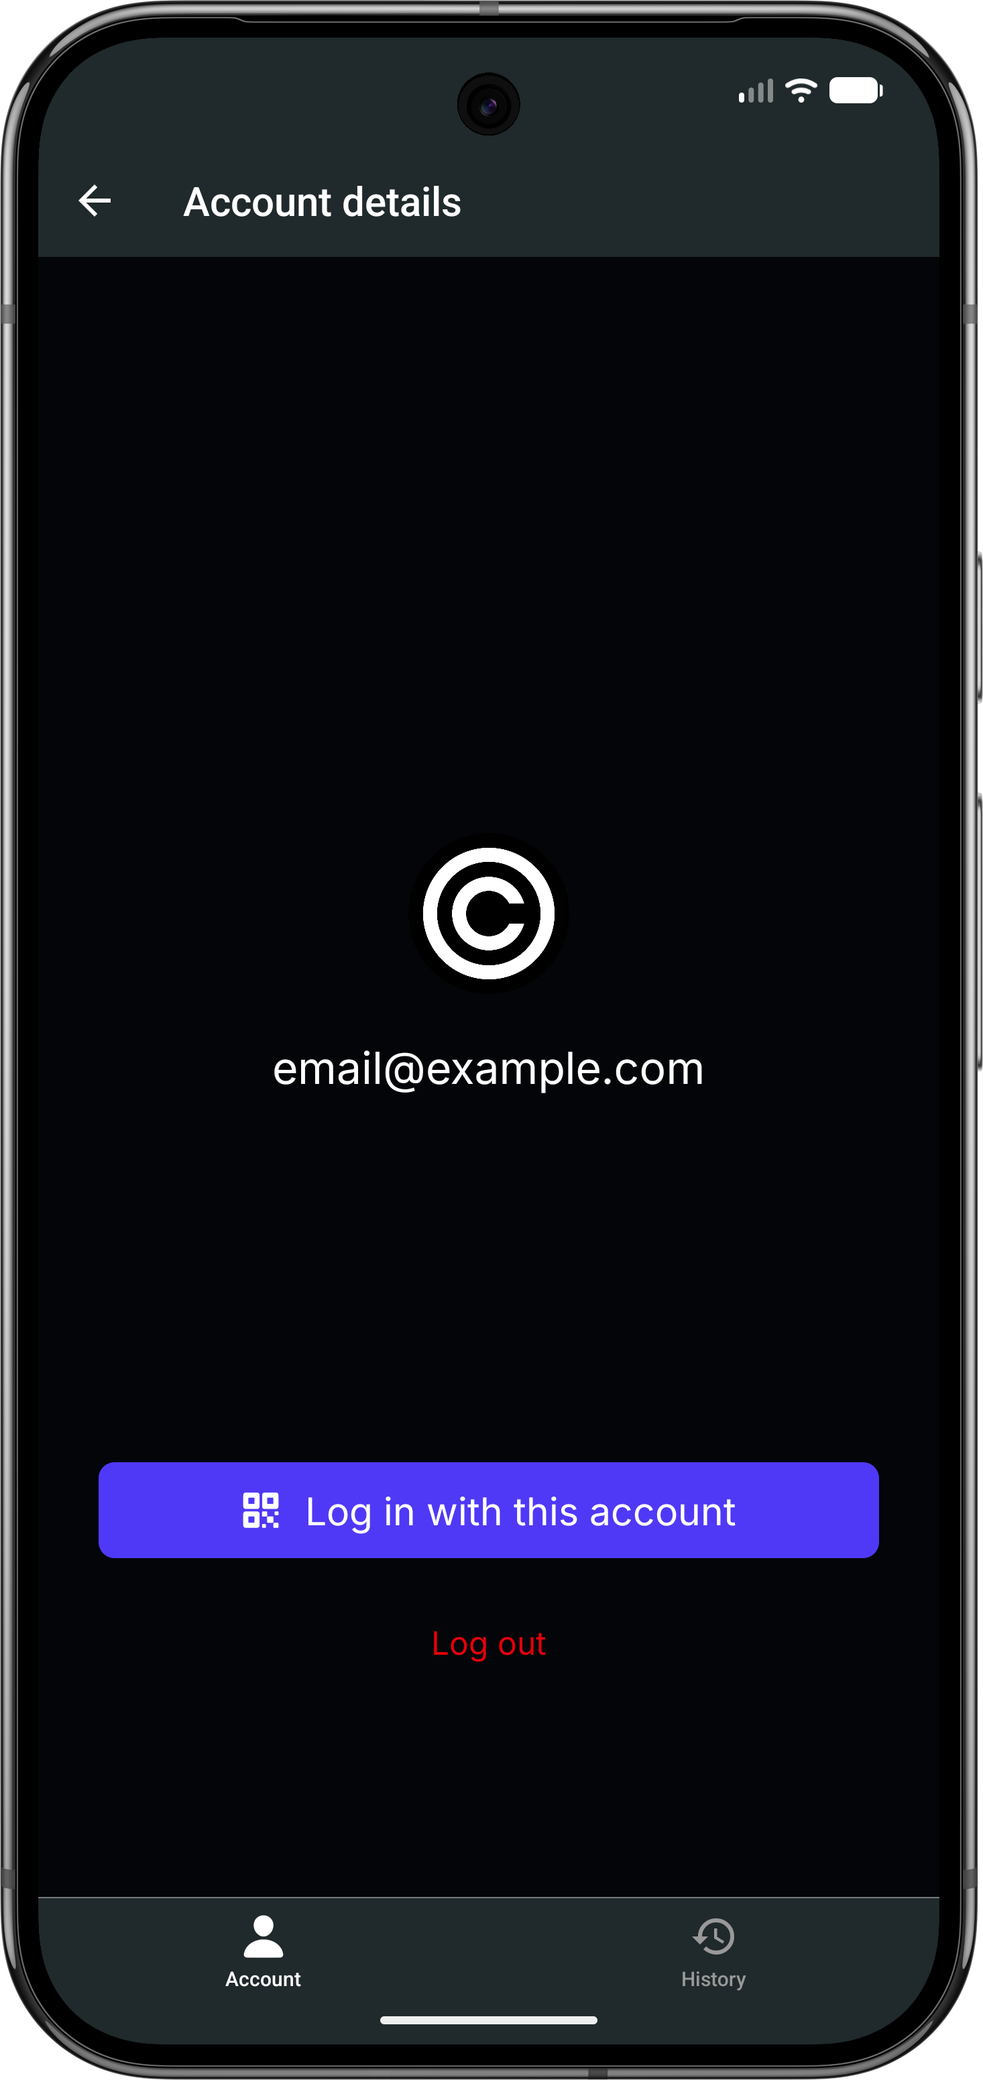
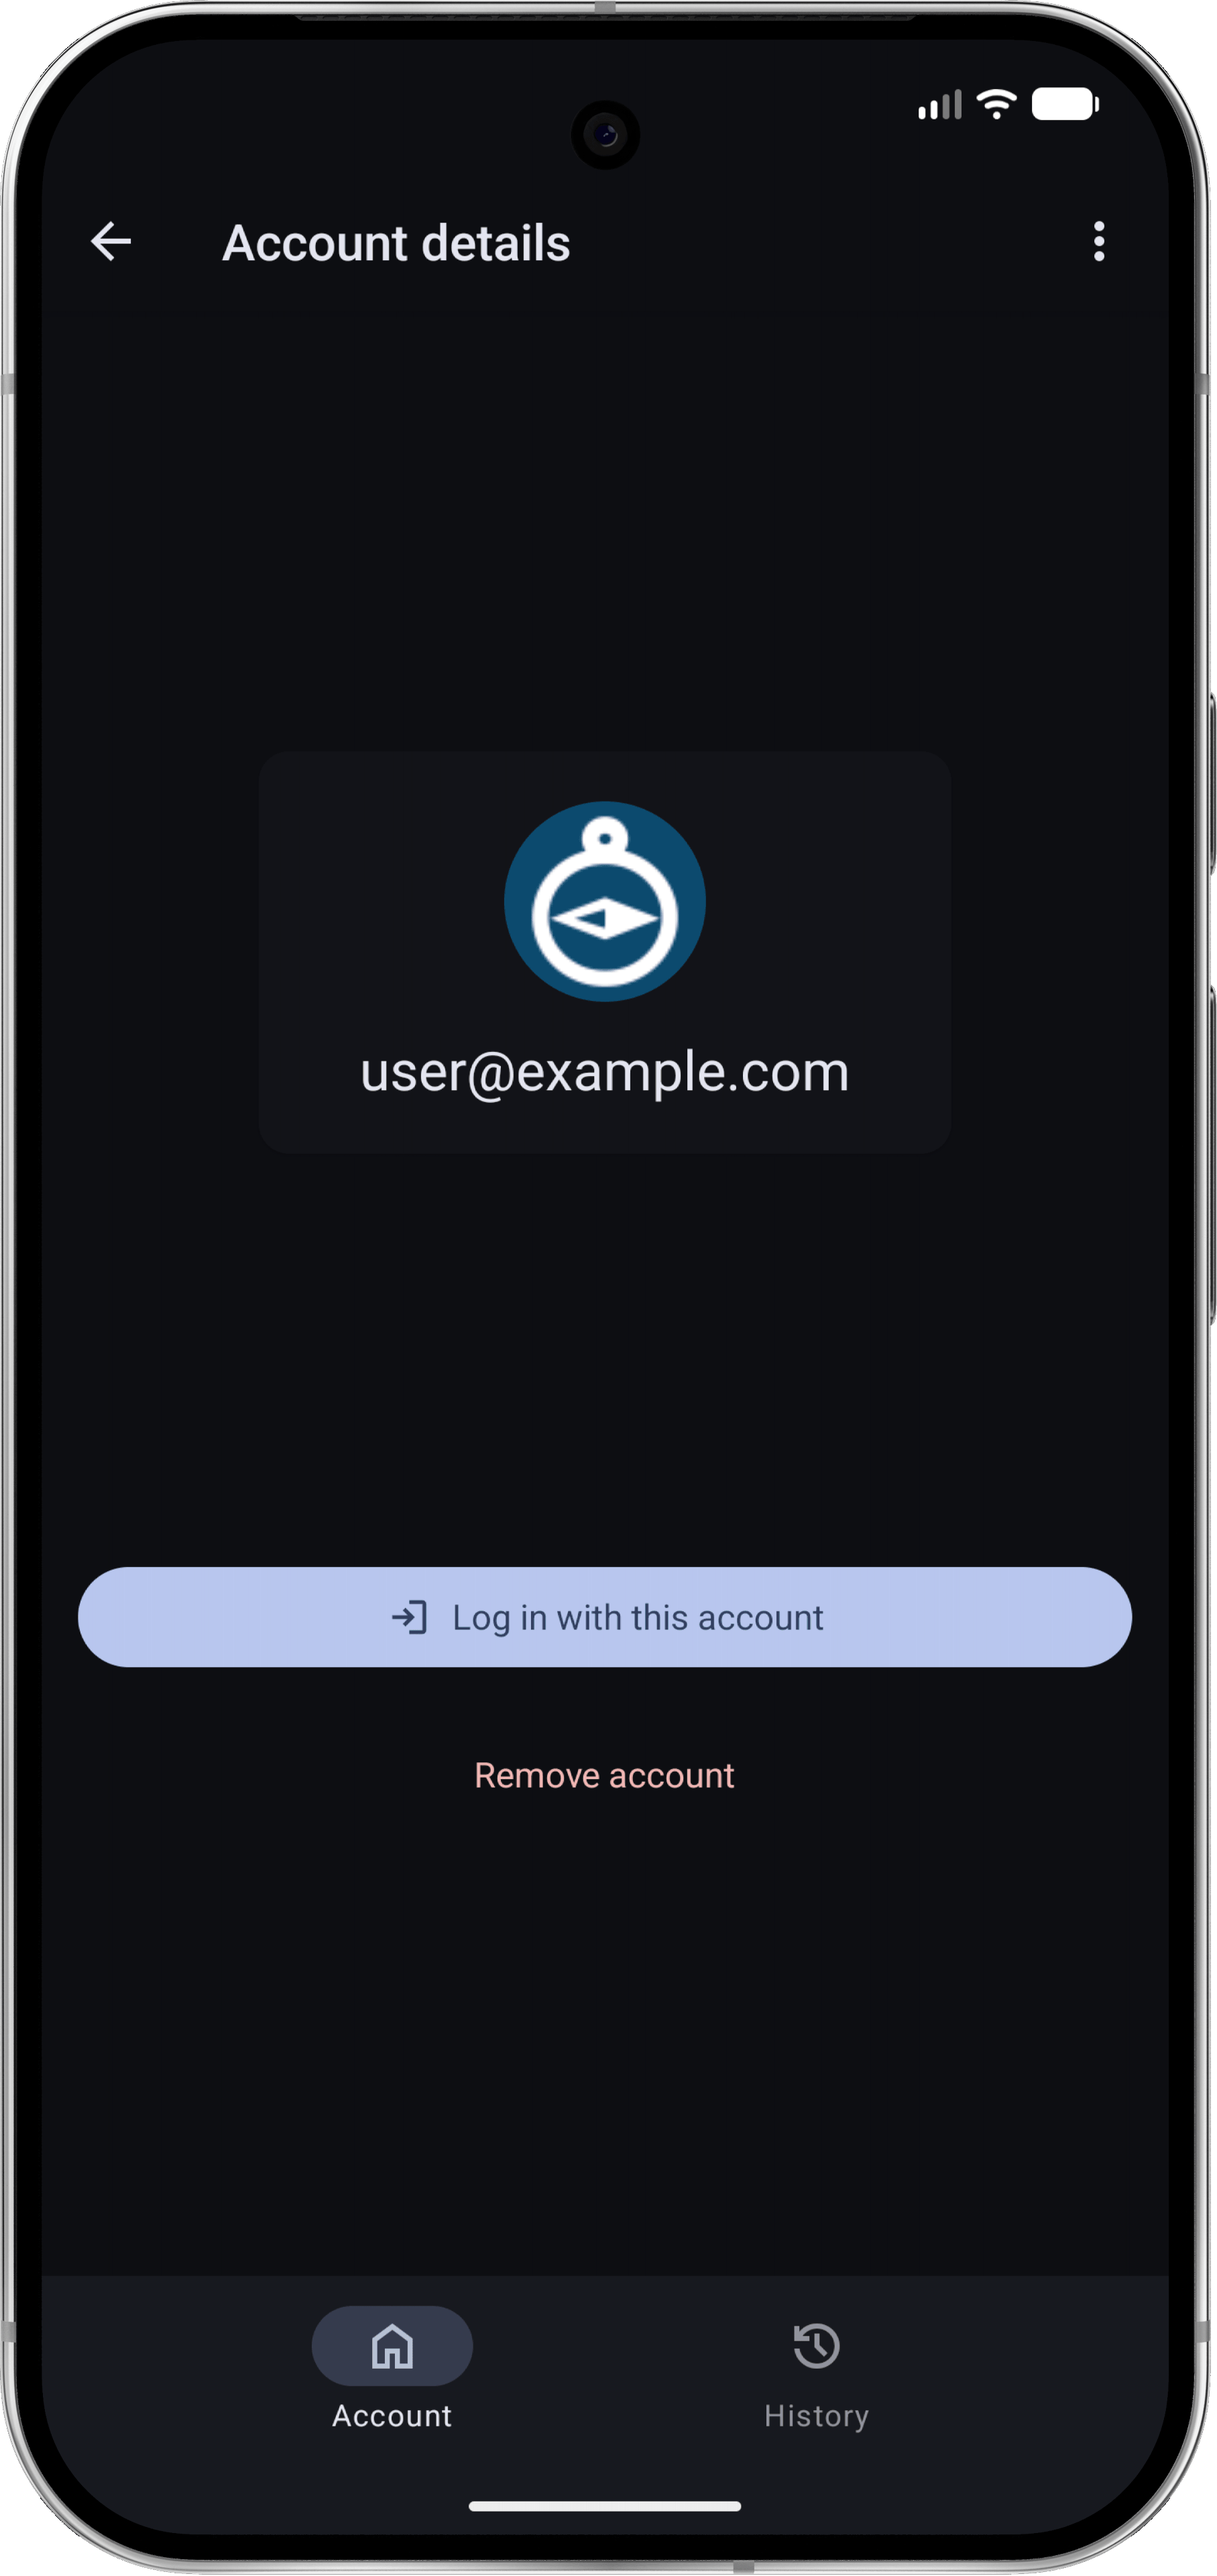
Updated docs with new screenshots of revamped UI

diff --git a/docs/user/centralauth-app/account-overview.md b/docs/user/centralauth-app/account-overview.md
@@ -10,7 +10,7 @@ The account overview screen shows a list of all accounts you have added to the C
 
 ## Add another account
 
-To add another account to the CentralAuth app, click the `Add account` button in the top right corner of the account overview screen. You will be redirected to the login screen where you can enter the credentials for the account you want to add.
+To add another account to the CentralAuth app, click the `Add account` button in the top right corner of the account overview screen. You will be redirected to the login screen again to add a new account to the app.
 
 ## Accounts details
 
@@ -20,14 +20,10 @@ To view the details of an account, click on any email address in the list. You w
 
 To quickly use an account to log in to any application using CentralAuth, click on the `Log in with this account` button of the account you want to use. A new app authentication flow will be started using the selected account. See the [Using the app to log in](/user/centralauth-app/login) page for more information about logging in with the CentralAuth app.
 
-## Remove an account
-
-To remove an account from the CentralAuth app, click on the `Log out` button of the account you want to remove. You will be prompted to confirm the removal. Click `Log out` to proceed with the removal.
-
 ## Primary account
 
-If you have more than one account added to the CentralAuth app, you can set one of them as your primary account. The primary account will be used by default when you start an app authentication flow from the same device as the CentralAuth app. A primary account is indicated by a green star icon next to the email address.
+If you have more than one account added to the CentralAuth app, you can set one of them as your primary account. The primary account will be used by default when you start an app authentication flow from the same device as the CentralAuth app. A primary account is indicated by a star icon next to the email address.
 
 ## Inactive account
 
-If one of your accounts has become inactive, the account will be marked with a yellow warning icon. Open the account details to see more information about the inactivity and how to reactivate the account.
+If one of your accounts has become inactive, the account will be marked with a red warning icon. Open the account details to see more information about the inactivity and how to reactivate the account.

diff --git a/docs/user/centralauth-app/account/account-details.md b/docs/user/centralauth-app/account/account-details.md
@@ -14,13 +14,13 @@ To use this account to log in to any application using CentralAuth, click on the
 
 ## Remove this account
 
-To remove this account from the CentralAuth app, click on the `Log out` button. You will be prompted to confirm the removal. Click `Log out` to proceed with the removal.
+To remove this account from the CentralAuth app, click on the `Remove account` button. You will be prompted to confirm the removal. Click `OK` to proceed with the removal.
 
 ## Primary account
 
-If you have more than one account added to the CentralAuth app, you can set one of them as your primary account. The primary account will be used by default when you start an app authentication flow from the same device as the CentralAuth app. A primary account is indicated by a green star icon and the label `Primary account` in the top right corner of the screen. To set this account as your primary account, click on the `Set as primary` button.
+If you have more than one account added to the CentralAuth app, you can set one of them as your primary account. The primary account will be used by default when you start an app authentication flow from the same device as the CentralAuth app. To set this account as your primary account, click on the menu button in the top right corner (the three vertical dots) and select `Set as primary`.
 
 ## Inactive account
 
-If one of your accounts has become inactive, a warning message is shown at the top of the screen. To reactivate the account, click on the `Reactivate account` button and log in with the email address of this account. Until you reactivate the account, you will not be able to use it to log in to any application.
+If one of your accounts has become inactive, a warning message is shown at the top of the screen. To reactivate the account, click on the `Reactivate account` button and log in with the email address of this account. Until you reactivate the account, you will not be able to use it to log in to any application using the CentralAuth app.
 

diff --git a/docs/user/centralauth-app/login.md b/docs/user/centralauth-app/login.md
@@ -18,7 +18,7 @@ If you want to log in to an application on the same device where you have the Ce
 <img src="/img/AppLoginScreen.png" alt="CentralAuth app login screen" width="25%" height="25%" />
 
 5. If you have multiple accounts in the app, the primary account will be selected by default. You can choose a different account if needed by clicking on the `Change account` button.
-6. Click on the `Log in at <organization>` button.
+6. Click on the `Log in to <organization>` button.
 7. Authenticate using the method you have set up on your device (e.g. FaceID, fingerprint or PIN code).
 
 ## Log in on a different device
